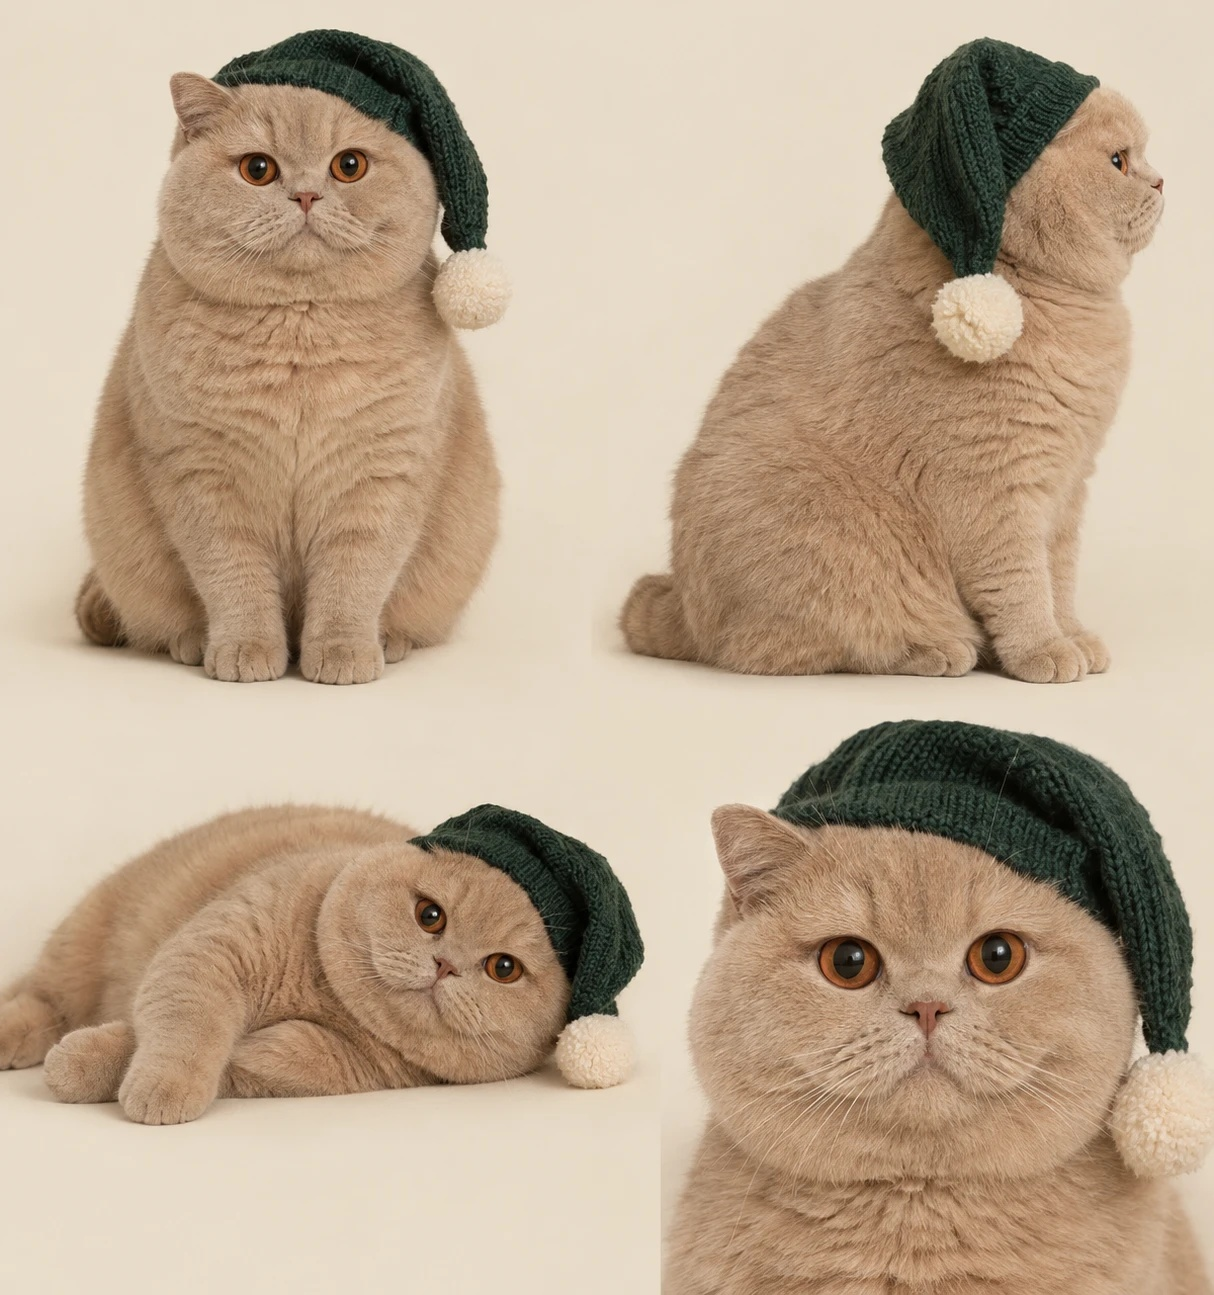
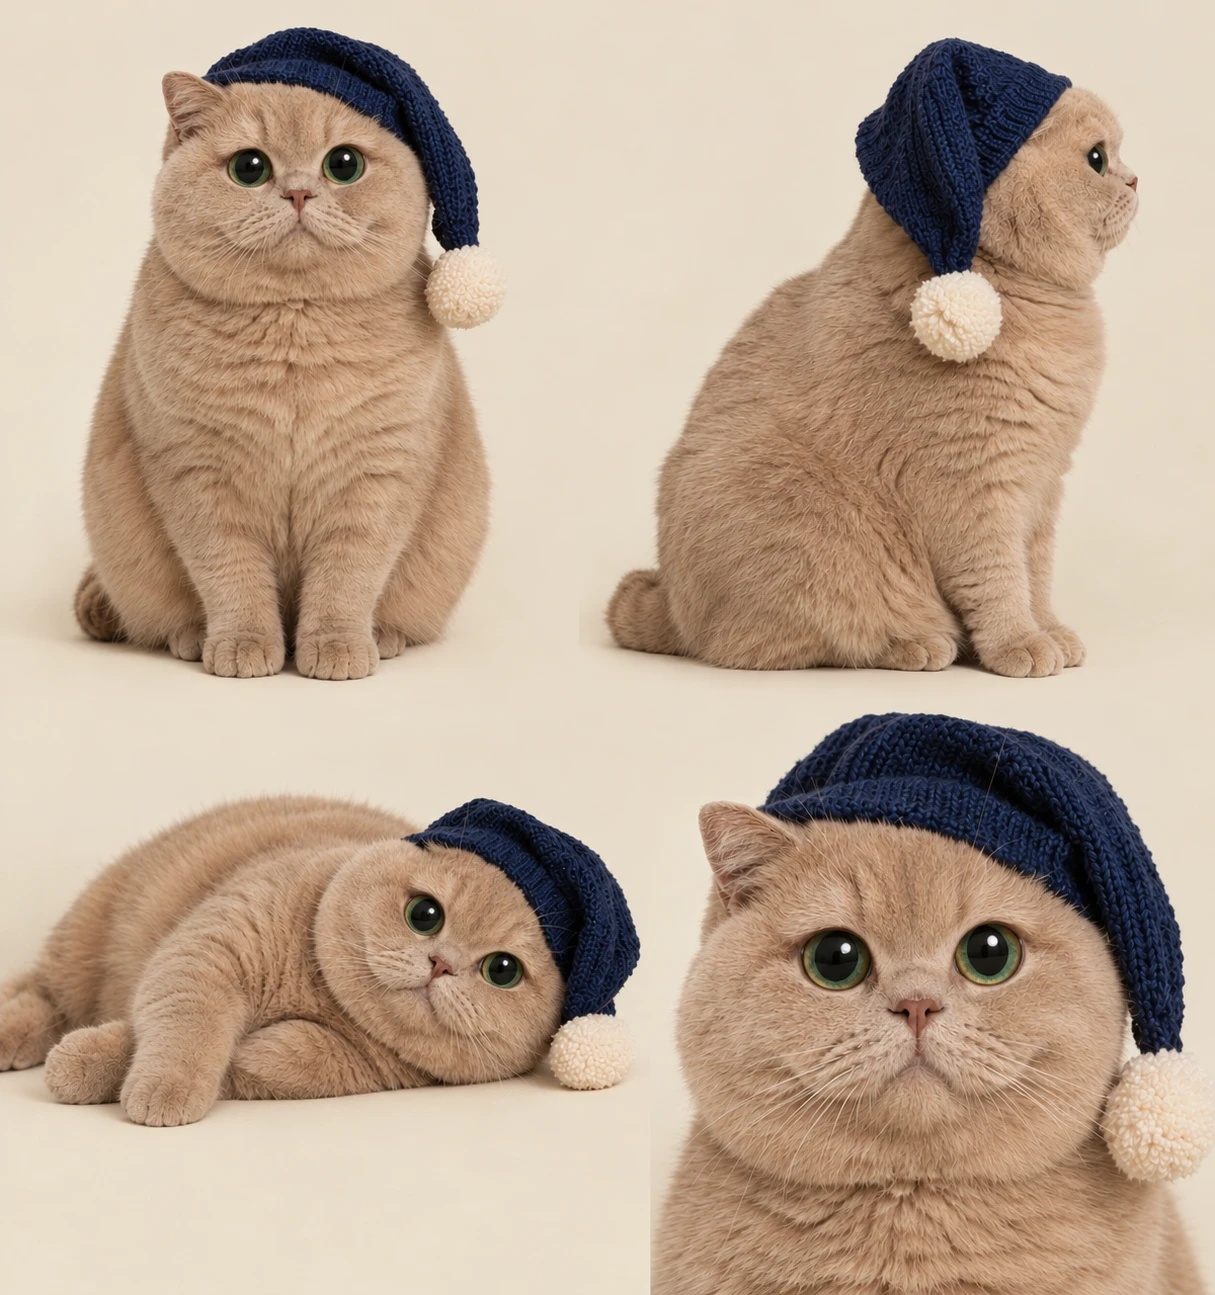
Ficha oficial de Toffee v2: gorro azul marino y ojos tiernos
Claude-Session: https://claude.ai/code/session_01B2aW4NxkcdNrbQMZuNL3mZ

diff --git a/tienda-holly/ESTADO.md b/tienda-holly/ESTADO.md
@@ -149,7 +149,7 @@ OJO: "Más de X vendidos" junto al nombre = ventas de la TIENDA, no del producto
 - Pendiente: el usuario envía PDF de referencias del personaje → ficha oficial (prompt) → nombre (verificar TikTok/IG/myshopify) → tienda → videos de lanzamiento. En paralelo: costos DSers por país.
 
 ## Personaje elegido (14-oct): TOFFEE
-- Gato IA realista: British Shorthair adulto color crema-caramelo sólido (un solo tono), muy gordito y redondo, cara redonda con cachetes, ojos grandes cobre. Prenda fija: gorro de dormir tejido verde oscuro, punta caída, pompón crema.
+- Gato IA realista: British Shorthair adulto color crema-caramelo sólido (un solo tono), muy gordito y redondo, cara redonda con cachetes, ojos verdes grandes con pupilas dilatadas. Prenda fija: gorro de dormir tejido AZUL MARINO, punta caída, pompón crema. Ojos: verdes, grandes y redondos, pupilas MUY dilatadas con brillo (ficha v2 aprobada 14-oct, toffee/TOFFEE-*.jpg).
 - Personalidad: tierno, dramático, glotón, dormilón; se cree empresario serio. Historia: probó todas las camas de la casa, todas malas → abrió su tiendita. Regla: "Si yo no me duermo encima, no lo vendo".
 - Propuesta de valor: "Todo está probado y aprobado por Toffee" (sello "Aprobado por Toffee 💤"). Fans: "los Toffeelovers" (provisional). Palabra para comentar: TOFFEE.
 - Usuario TikTok libre (verificado 14-oct): @toffee.elgato (también @toffeeelgato). Revisar Instagram.
